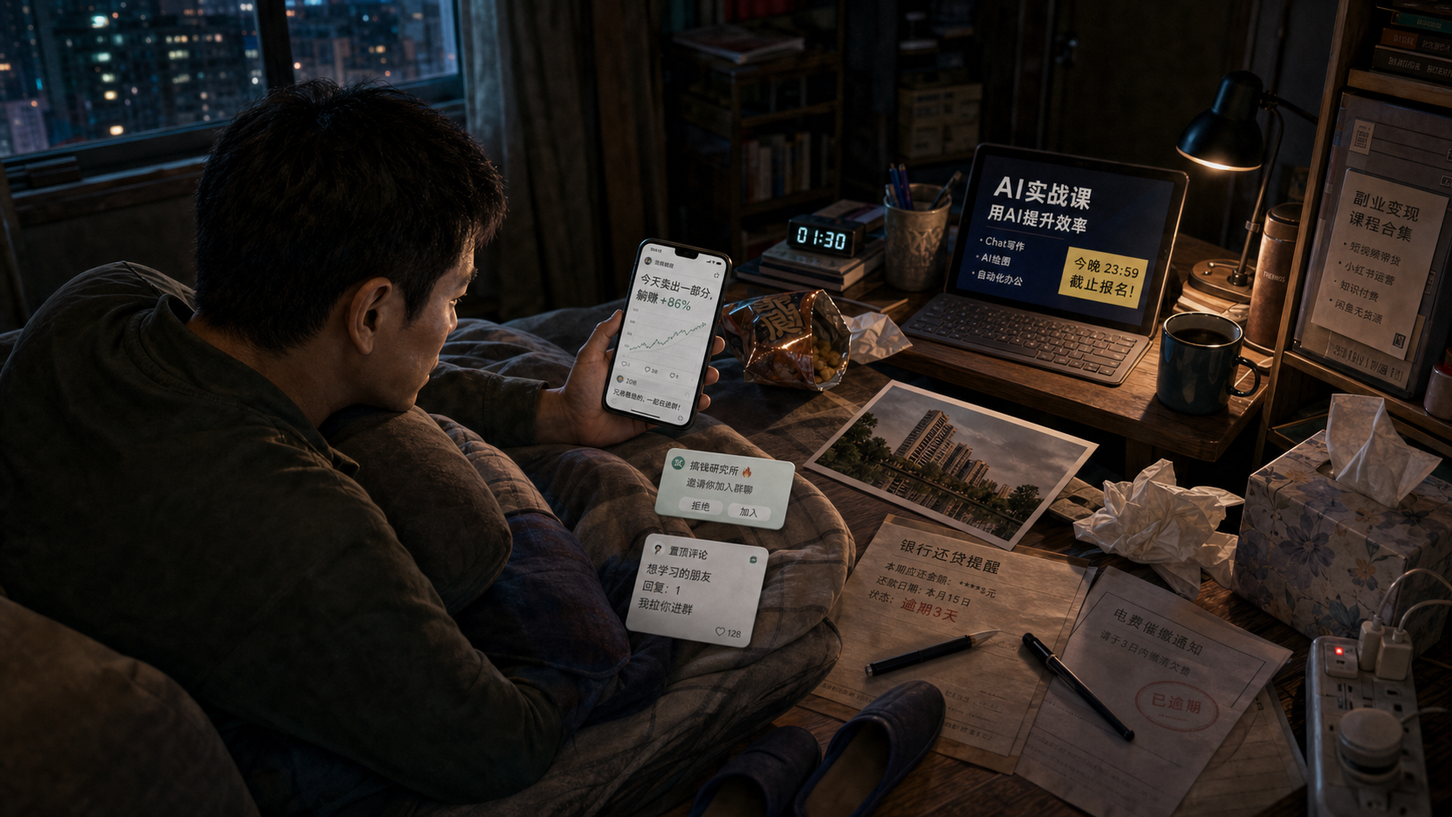
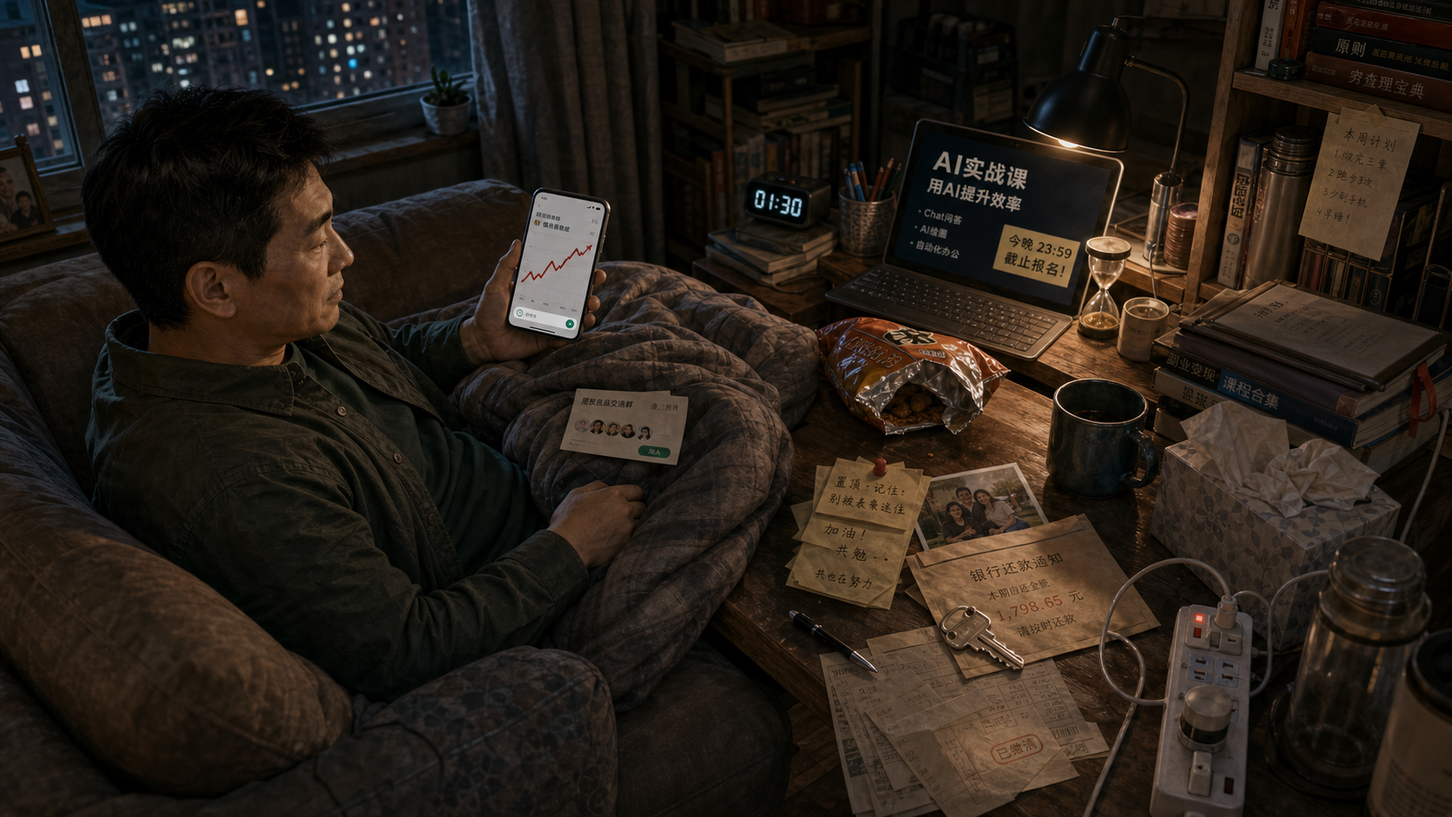
Rebuild social level around object clues

diff --git a/src/core/config.ts b/src/core/config.ts
@@ -351,15 +351,25 @@ export const gameConfig: GameConfig = {
       machineName: "高光拆帧机",
       machineEmbedded: true,
       completeText: "高光不是生活全貌。刷到别人的可发布版本，也先别拿它审判今晚的自己。",
+      decoys: [
+        { id: "blanket-fold", x: 29.5, y: 58, hitWidth: 10, hitHeight: 22, label: "被子褶皱" },
+        { id: "alarm-clock", x: 54.2, y: 28.6, hitWidth: 6.6, hitHeight: 7.2, label: "床头闹钟" },
+        { id: "snack-bag", x: 58.8, y: 47.5, hitWidth: 9.4, hitHeight: 10.5, label: "零食包装" },
+        { id: "table-mug", x: 78.9, y: 47.2, hitWidth: 6, hitHeight: 10, label: "桌边杯子" },
+        { id: "pen-stack", x: 59.2, y: 84.4, hitWidth: 16, hitHeight: 8, label: "纸笔杂物" },
+        { id: "tissue-box", x: 88.3, y: 66.2, hitWidth: 9.4, hitHeight: 15, label: "纸巾盒" },
+        { id: "charging-cable", x: 92.6, y: 74.8, hitWidth: 7.5, hitHeight: 14, label: "充电线" },
+        { id: "shelf-books", x: 90.5, y: 14.5, hitWidth: 12, hitHeight: 17, label: "书架书脊" }
+      ],
       hotspots: [
-        { id: "h1", evidenceId: "cropped_profit_screenshot", x: 49, y: 38.4, hitX: 49, hitY: 38.4, hitWidth: 8.2, hitHeight: 15, radius: 8, label: "手机上半截红线", found: false, renderMode: "embedded", revealText: "只露涨幅，不露本金", animationKind: "phone" },
-        { id: "h2", evidenceId: "unsent_reply_draft", x: 49, y: 50, hitX: 49, hitY: 50, hitWidth: 8, hitHeight: 5.8, radius: 7, label: "屏幕底部那句话", found: false, renderMode: "embedded", revealText: "祝福停在输入框里", animationKind: "chat" },
-        { id: "h3", evidenceId: "group_invite_popup", x: 54.2, y: 58.6, hitX: 54.2, hitY: 58.6, hitWidth: 12, hitHeight: 10, radius: 8, label: "被顺手接上的邀请", found: false, renderMode: "embedded", revealText: "进群入口接在收益后面", animationKind: "chat" },
-        { id: "h4", evidenceId: "pinned_review_comment", x: 53.4, y: 69.5, hitX: 53.4, hitY: 69.5, hitWidth: 12, hitHeight: 12, radius: 8, label: "被顶到最前的评论", found: false, renderMode: "embedded", revealText: "评论把补课入口顶上来", animationKind: "chat" },
-        { id: "h5", evidenceId: "ai_course_deadline", x: 71.7, y: 31.8, hitX: 71.7, hitY: 31.8, hitWidth: 18, hitHeight: 20, radius: 8, label: "电脑上的今晚截止", found: false, renderMode: "embedded", revealText: "倒计时醒目，条件在边缘", animationKind: "note" },
-        { id: "h6", evidenceId: "side_hustle_bookmark", x: 95.2, y: 33.5, hitX: 95.2, hitY: 33.5, hitWidth: 8.2, hitHeight: 25, radius: 8, label: "右侧没关的收藏页", found: false, renderMode: "embedded", revealText: "副业焦虑还开着标签页", animationKind: "note" },
-        { id: "h7", evidenceId: "mortgage_debit_notice", x: 71.1, y: 68.2, hitX: 71.1, hitY: 68.2, hitWidth: 21, hitHeight: 19, radius: 8, label: "相片旁的扣款纸", found: false, renderMode: "embedded", revealText: "新房照旁边压着月供", animationKind: "contract" },
-        { id: "h8", evidenceId: "household_overdue_bill", x: 84.8, y: 75.1, hitX: 84.8, hitY: 75.1, hitWidth: 17, hitHeight: 19, radius: 8, label: "插座边的催缴单", found: false, renderMode: "embedded", revealText: "睡前账单还没闭嘴", animationKind: "paper" }
+        { id: "h1", evidenceId: "cropped_profit_screenshot", x: 38.2, y: 35.1, hitX: 38.2, hitY: 35.1, hitWidth: 8, hitHeight: 13.5, radius: 8, label: "手机上半截红线", found: false, renderMode: "embedded", revealText: "只露涨幅，不露本金", animationKind: "phone" },
+        { id: "h2", evidenceId: "unsent_reply_draft", x: 38.2, y: 42, hitX: 38.2, hitY: 42, hitWidth: 7.8, hitHeight: 5.4, radius: 7, label: "屏幕底部那句话", found: false, renderMode: "embedded", revealText: "祝福停在输入框里", animationKind: "chat" },
+        { id: "h3", evidenceId: "group_invite_popup", x: 43.2, y: 56.7, hitX: 43.2, hitY: 56.7, hitWidth: 12, hitHeight: 9.5, radius: 8, label: "被顺手接上的邀请", found: false, renderMode: "embedded", revealText: "进群入口接在收益后面", animationKind: "chat" },
+        { id: "h4", evidenceId: "pinned_review_comment", x: 55.9, y: 65.2, hitX: 55.9, hitY: 65.2, hitWidth: 10.8, hitHeight: 15, radius: 8, label: "被顶到最前的评论", found: false, renderMode: "embedded", revealText: "评论把补课入口顶上来", animationKind: "chat" },
+        { id: "h5", evidenceId: "ai_course_deadline", x: 69.8, y: 29.5, hitX: 69.8, hitY: 29.5, hitWidth: 16, hitHeight: 18, radius: 8, label: "电脑上的今晚截止", found: false, renderMode: "embedded", revealText: "倒计时醒目，条件在边缘", animationKind: "note" },
+        { id: "h6", evidenceId: "side_hustle_bookmark", x: 88.6, y: 39.3, hitX: 88.6, hitY: 39.3, hitWidth: 8.5, hitHeight: 20, radius: 8, label: "右侧没关的收藏页", found: false, renderMode: "embedded", revealText: "副业焦虑还开着标签页", animationKind: "note" },
+        { id: "h7", evidenceId: "mortgage_debit_notice", x: 67.5, y: 74.2, hitX: 67.5, hitY: 74.2, hitWidth: 12, hitHeight: 15, radius: 8, label: "相片旁的扣款纸", found: false, renderMode: "embedded", revealText: "新房照旁边压着月供", animationKind: "contract" },
+        { id: "h8", evidenceId: "household_overdue_bill", x: 85.8, y: 79.5, hitX: 85.8, hitY: 79.5, hitWidth: 15.5, hitHeight: 17.5, radius: 8, label: "插座边的催缴单", found: false, renderMode: "embedded", revealText: "睡前账单还没闭嘴", animationKind: "paper" }
       ]
     }
   ]

diff --git a/src/game/scenes/socialScene.ts b/src/game/scenes/socialScene.ts
@@ -1,5 +1,5 @@
 import Phaser from "phaser";
-import type { HotspotEvidence, InvestigationScene, SceneHotspot } from "../../core/types";
+import type { HotspotEvidence, InvestigationScene, SceneDecoy, SceneHotspot } from "../../core/types";
 import { playHitSound } from "../systems/audioSystem";
 import { getOfficeProgress } from "../systems/progressSystem";
 
@@ -17,24 +17,6 @@ const characterStates = [
   "progress-8"
 ] as const;
 type CharacterState = (typeof characterStates)[number];
-type DecoyZone = {
-  id: string;
-  x: number;
-  y: number;
-  width: number;
-  height: number;
-};
-
-const socialDecoys: DecoyZone[] = [
-  { id: "blanket-fold", x: 40.5, y: 55.8, width: 8.2, height: 20 },
-  { id: "alarm-clock", x: 63.2, y: 29.4, width: 6.8, height: 7.2 },
-  { id: "snack-bag", x: 65.2, y: 47.5, width: 8.8, height: 9.8 },
-  { id: "table-mug", x: 79.4, y: 40.5, width: 5.2, height: 8.8 },
-  { id: "pen-stack", x: 73.8, y: 66.4, width: 12.2, height: 8 },
-  { id: "tissue-box", x: 87.4, y: 53.5, width: 9.2, height: 13.5 },
-  { id: "charging-cable", x: 90.4, y: 79.8, width: 9, height: 15.5 },
-  { id: "shelf-books", x: 56.8, y: 18.8, width: 10.5, height: 17.5 }
-];
 
 export interface SocialSceneData {
   scene: InvestigationScene;
@@ -123,8 +105,8 @@ export class SocialScene extends Phaser.Scene {
     const progress = getOfficeProgress(this.socialData.scene, this.socialData.foundHotspotIds);
     if (progress.complete) return;
 
-    for (const decoy of socialDecoys) {
-      const rect = this.getPercentRect(decoy);
+    for (const decoy of this.socialData.scene.decoys ?? []) {
+      const rect = this.getDecoyRect(decoy);
       const zone = this.add.zone(rect.x, rect.y, rect.width, rect.height).setDepth(40).setInteractive({ useHandCursor: true });
       zone.on("pointerdown", () => this.handleDecoy(rect));
     }
@@ -423,12 +405,12 @@ export class SocialScene extends Phaser.Scene {
     };
   }
 
-  private getPercentRect(rect: { x: number; y: number; width: number; height: number }): { x: number; y: number; width: number; height: number } {
+  private getDecoyRect(decoy: SceneDecoy): { x: number; y: number; width: number; height: number } {
     return {
-      x: (rect.x / 100) * worldWidth,
-      y: (rect.y / 100) * worldHeight,
-      width: (rect.width / 100) * worldWidth,
-      height: (rect.height / 100) * worldHeight
+      x: (decoy.x / 100) * worldWidth,
+      y: (decoy.y / 100) * worldHeight,
+      width: (decoy.hitWidth / 100) * worldWidth,
+      height: (decoy.hitHeight / 100) * worldHeight
     };
   }
 }

diff --git a/src/main.ts b/src/main.ts
@@ -243,6 +243,19 @@ function renderAccessibilityHotspots(scene: InvestigationScene, sceneState: Scen
 
   return `
     <div class="game-accessibility" aria-label="可点击线索">
+      ${(scene.decoys ?? [])
+        .map(
+          (decoy) => `
+            <button
+              class="access-hotspot access-decoy"
+              style="left:${toPercent(decoy.x)}%; top:${toPercent(decoy.y)}%; width:${toPercent(decoy.hitWidth)}%; height:${toPercent(decoy.hitHeight)}%;"
+              data-action="decoy"
+              data-id="${escapeAttribute(decoy.id)}"
+              aria-label="${escapeAttribute(decoy.label)}"
+            ></button>
+          `
+        )
+        .join("")}
       ${scene.hotspots
         .filter((hotspot) => !sceneState.foundHotspotIds.includes(hotspot.id))
         .map(
@@ -266,6 +279,10 @@ function bindEvents(): void {
     element.addEventListener("click", async () => {
       const action = element.dataset.action;
       if (action === "hotspot") handleHotspot(element.dataset.id ?? "");
+      if (action === "decoy") {
+        handleMiss();
+        render();
+      }
       if (action === "hint-ad") await rewardHint();
       if (action === "reset") resetDemo();
       if (action === "start-challenge") startChallenge();

diff --git a/src/core/types.ts b/src/core/types.ts
@@ -33,6 +33,15 @@ export interface SceneHotspot {
   animationKind?: "kline" | "goldLine" | "chat" | "paper" | "scratch" | "receipt" | "news" | "alert" | "sign" | "contract" | "photo" | "phone" | "ticket" | "note" | "bottle";
 }
 
+export interface SceneDecoy {
+  id: string;
+  x: number;
+  y: number;
+  hitWidth: number;
+  hitHeight: number;
+  label: string;
+}
+
 export interface InvestigationScene {
   id: string;
   name: string;
@@ -47,6 +56,7 @@ export interface InvestigationScene {
   machineImage?: string;
   machineEmbedded?: boolean;
   completeText?: string;
+  decoys?: SceneDecoy[];
   hotspots: SceneHotspot[];
 }
 

diff --git a/src/styles.css b/src/styles.css
@@ -2033,6 +2033,7 @@ p {
   position: absolute;
   inset: 0;
   z-index: 20;
+  pointer-events: none;
 }
 
 .access-hotspot {
@@ -2045,6 +2046,7 @@ p {
   box-shadow: none;
   opacity: 0;
   transform: translate(-50%, -50%);
+  pointer-events: auto;
 }
 
 .access-hotspot:hover {

diff --git a/docs/reviews/2026-06-02-social-image-review.md b/docs/reviews/2026-06-02-social-image-review.md
@@ -1,6 +1,6 @@
 # social Image Review
 
-Generated: 2026-06-01
+Generated: 2026-06-02
 
 
 > Existing review file overwritten by the latest config snapshot.
@@ -18,10 +18,11 @@ Generated: 2026-06-01
 
 ## Review Result
 
-- Decision: pass after the difficulty pass.
-- Reason: clue count stays above the third level's 7 clues, the answer labels no longer read like a solution list, and the runtime now has 8 false-positive decoy zones around plausible non-clue clutter.
-- Difficulty note: the player must distinguish pressure/cost evidence from ordinary bedroom objects such as blanket folds, the clock, snacks, mugs, pens, tissue box, charging cable, and shelf clutter.
-- Remaining risk: the progress states are still same-layout full-scene rasters, matching the current second/third-level pipeline. The longer-term production target remains layered character/state assets.
+- Decision: pass after V3 rebuild.
+- Reason: the level no longer relies on clicking every text block. The main clue bodies are object states or object relationships: thumb-cropped chart, unpressed send strip, invite card, pinned note, laptop countdown/hourglass, bookmark stack, house key plus repayment envelope, and utility envelope beside a power strip.
+- Difficulty note: 8 config-level decoys are present and shared by DOM accessibility and Phaser interaction layers, so ordinary clutter can be clicked without advancing progress.
+- Visual QA: Playwright and manual browser checks confirmed that three decoy clicks kept progress at `0/8`, while four real clues advanced to `4/8` with local found markers on the intended objects.
+- Remaining risk: the progress states remain full-scene raster variants instead of layered character assets, consistent with the current second/third-level production phase.
 
 ## Generation Brief
 
@@ -156,14 +157,14 @@ Record source-pixel centers before converting to config percentages.
 
 | ID | Label | Evidence | Config center | Config box | Animation | Source center | Review note |
 | --- | --- | --- | --- | --- | --- | --- | --- |
-| `h1` | 手机上半截红线 | `cropped_profit_screenshot` | 49, 38.4 | 8.2 x 15 | phone | `819, 361` | upper phone feed chart |
-| `h2` | 屏幕底部那句话 | `unsent_reply_draft` | 49, 50 | 8 x 5.8 | chat | `819, 471` | lower phone reply strip |
-| `h3` | 被顺手接上的邀请 | `group_invite_popup` | 54.2, 58.6 | 12 x 10 | chat | `906, 551` | nearby invite card |
-| `h4` | 被顶到最前的评论 | `pinned_review_comment` | 53.4, 69.5 | 12 x 12 | chat | `893, 654` | pinned/replay card |
-| `h5` | 电脑上的今晚截止 | `ai_course_deadline` | 71.7, 31.8 | 18 x 20 | note | `1199, 299` | laptop deadline page |
-| `h6` | 右侧没关的收藏页 | `side_hustle_bookmark` | 95.2, 33.5 | 8.2 x 25 | note | `1592, 315` | right-side saved course page |
-| `h7` | 相片旁的扣款纸 | `mortgage_debit_notice` | 71.1, 68.2 | 21 x 19 | contract | `1189, 642` | home photo and repayment notice |
-| `h8` | 插座边的催缴单 | `household_overdue_bill` | 84.8, 75.1 | 17 x 19 | paper | `1418, 707` | lower-right household bill |
+| `h1` | 手机上半截红线 | `cropped_profit_screenshot` | 38.2, 35.1 | 8 x 13.5 | phone | `639, 330` | thumb/screen crop hides principal area |
+| `h2` | 屏幕底部那句话 | `unsent_reply_draft` | 38.2, 42 | 7.8 x 5.4 | chat | `639, 395` | unpressed phone input/send strip |
+| `h3` | 被顺手接上的邀请 | `group_invite_popup` | 43.2, 56.7 | 12 x 9.5 | chat | `722, 534` | invite card tucked into blanket |
+| `h4` | 被顶到最前的评论 | `pinned_review_comment` | 55.9, 65.2 | 10.8 x 15 | chat | `934, 614` | pinned note with red pushpin |
+| `h5` | 电脑上的今晚截止 | `ai_course_deadline` | 69.8, 29.5 | 16 x 18 | note | `1167, 278` | laptop countdown plus hourglass |
+| `h6` | 右侧没关的收藏页 | `side_hustle_bookmark` | 88.6, 39.3 | 8.5 x 20 | note | `1481, 370` | side bookmark/course stack |
+| `h7` | 相片旁的扣款纸 | `mortgage_debit_notice` | 67.5, 74.2 | 12 x 15 | contract | `1129, 698` | key and repayment envelope |
+| `h8` | 插座边的催缴单 | `household_overdue_bill` | 85.8, 79.5 | 15.5 x 17.5 | paper | `1434, 748` | utility envelope near power strip |
 
 ## Decision
 

diff --git a/docs/social-v3-production-brief.md b/docs/social-v3-production-brief.md
@@ -1,0 +1,76 @@
+# Social V3 Production Brief
+
+Scene: `social` / `小红薯暴击夜`
+
+## Theme
+
+睡前想刷手机放松，却被别人高光和自己现实成本夹击。
+
+## Core Correction
+
+The previous social scene failed because most correct targets were visible text blocks. The new scene must follow the convenience-store direction: hide pressure inside believable objects and object relationships. Text can exist, but it cannot be the only reason a clue is suspicious.
+
+## Camera & Layout
+
+- Canvas: 16:9 hidden-object game scene.
+- Camera: high 3/4 view over a cramped bedside sofa/low table area.
+- Main action: Zhou Qiming half-reclines in a worn armchair or sofa corner, phone in hand, posture believable for late-night scrolling.
+- Foreground: blanket, slippers, power strip, paper scraps, envelopes, keys, snack bag, mug.
+- Midground: phone, low table, laptop/tablet, ordinary clutter, most clue objects.
+- Background: window, dim shelf, side lamp, non-interactive household objects.
+- The image must be dense enough that ordinary clutter competes with clue objects.
+
+## Character Plan
+
+Fourth level has 8 clues and needs 9 progress states: `progress-0` through `progress-8`.
+
+- `progress-0`: tightly doomscrolling, shoulders closed.
+- `progress-1..3`: gaze starts leaving the phone.
+- `progress-4..6`: body opens, phone lowers.
+- `progress-7`: skeptical half-smile, no longer swallowed by the feed.
+- `progress-8`: relaxed, phone no longer controls posture.
+
+State variants may use same-layout full-scene rasters for this project phase. Clue bodies and decoys must stay in place across all states.
+
+## Clue Plan
+
+Total: 8 clues, harder than the third level's 7 clues.
+
+At least 5 clues must be object/relationship driven rather than pure text.
+
+1. `cropped_profit_screenshot`: phone feed shows a red upward chart, but Zhou's thumb or screen crop hides the principal/position area.
+2. `unsent_reply_draft`: phone bottom has a visible send arrow/input area that was not pressed; this is a button-state clue, not a text-only clue.
+3. `group_invite_popup`: a small invitation card with avatar dots and a join button is tucked partly under the phone/blanket, visually connected to the profit post.
+4. `pinned_review_comment`: a pinned/replay card uses a physical pushpin or red pin marker, mixed with ordinary sticky notes.
+5. `ai_course_deadline`: laptop/tablet has a course screen plus a physical timer/hourglass/sticky countdown on the keyboard area.
+6. `side_hustle_bookmark`: a bookmark ribbon or saved-course card sticks out from a side notebook/tablet stack, not just a text page.
+7. `mortgage_debit_notice`: a house key and home photo sit on a bank envelope or repayment slip; the object relationship carries the meaning.
+8. `household_overdue_bill`: a red-stamped utility envelope sits near a power strip/plug, competing with ordinary paper clutter.
+
+## Required Decoys
+
+Place at least 8 plausible non-clue decoys:
+
+- ordinary receipt, blank envelope, snack package, mug, tissue pile, book spine, charging cable, clock, pen, harmless photo, folded blanket edge, water bottle.
+
+Decoys should be close enough in material and shape that the player cannot solve the level by clicking every text block.
+
+## Forbidden
+
+- No all-clues-are-text design.
+- No giant QR code.
+- No standalone UI cards floating over the scene.
+- No clue label baked into the art.
+- No office-work pose.
+- No phone screen that only faces the camera while the character cannot see it.
+- No empty scenic background dominating the playable area.
+- No duplicate paper-slip clues that only differ by written words.
+
+## Acceptance Notes
+
+- The level must have 8 hotspots and 9 progress states.
+- At least 5/8 active clues must be visually supported by object state or object relationship.
+- Runtime must include false-positive decoy zones.
+- Hotspot calibration must be re-measured from the final source image.
+- Playwright must capture intro, mid-progress, completion, and mobile intro screenshots.
+- Config validation must prove social clue count exceeds convenience clue count and social progress images are distinct.

diff --git a/docs/social-hotspot-calibration.md b/docs/social-hotspot-calibration.md
@@ -4,19 +4,32 @@ Base image: `public/assets/game/social/states/social-progress-0.png`
 
 Source image size: `1672 x 941`.
 
-Runtime stage: `1280 x 720`, scaled with center crop by `SocialScene`.
+Runtime stage: `1280 x 720`, no center crop expected because the source is 16:9.
 
-The fourth level must be harder than the third level, so this calibration uses 8 clues after the 7-clue convenience level. The clues are intentionally split across phone content, phone-adjacent cards, other screens, and life-cost paperwork so the search does not collapse into one phone rectangle.
+Fourth-level difficulty rule: this level must be harder than the 7-clue convenience level and must not collapse into "click every text block". The active clues are anchored to object state or object relationships, while ordinary household clutter acts as decoy space.
 
 | Hotspot | Evidence | Source center px | Runtime % | Hit size % | Visual anchor |
 | --- | --- | ---: | ---: | ---: | --- |
-| h1 | `cropped_profit_screenshot` | `819, 361` | `49.0, 38.4` | `8.2 x 15.0` | upper phone feed profit chart |
-| h2 | `unsent_reply_draft` | `819, 471` | `49.0, 50.0` | `8.0 x 5.8` | lower phone reply/input strip |
-| h3 | `group_invite_popup` | `906, 551` | `54.2, 58.6` | `12.0 x 10.0` | invite card near the blanket |
-| h4 | `pinned_review_comment` | `893, 654` | `53.4, 69.5` | `12.0 x 12.0` | pinned comment/replay card below the blanket |
-| h5 | `ai_course_deadline` | `1199, 299` | `71.7, 31.8` | `18.0 x 20.0` | laptop deadline/course page |
-| h6 | `side_hustle_bookmark` | `1592, 315` | `95.2, 33.5` | `8.2 x 25.0` | right-side side-hustle page |
-| h7 | `mortgage_debit_notice` | `1189, 642` | `71.1, 68.2` | `21.0 x 19.0` | home photo plus repayment notice |
-| h8 | `household_overdue_bill` | `1418, 707` | `84.8, 75.1` | `17.0 x 19.0` | household overdue bill near the cabinet |
+| h1 | `cropped_profit_screenshot` | `639, 330` | `38.2, 35.1` | `8.0 x 13.5` | phone upper chart area partly hidden by hand/screen crop |
+| h2 | `unsent_reply_draft` | `639, 395` | `38.2, 42.0` | `7.8 x 5.4` | phone bottom input/send strip |
+| h3 | `group_invite_popup` | `722, 534` | `43.2, 56.7` | `12.0 x 9.5` | small invite card tucked into blanket |
+| h4 | `pinned_review_comment` | `934, 614` | `55.9, 65.2` | `10.8 x 15.0` | pinned note with red pushpin among ordinary notes |
+| h5 | `ai_course_deadline` | `1167, 278` | `69.8, 29.5` | `16.0 x 18.0` | laptop course screen plus countdown/hourglass area |
+| h6 | `side_hustle_bookmark` | `1481, 370` | `88.6, 39.3` | `8.5 x 20.0` | right-side course/bookmark stack |
+| h7 | `mortgage_debit_notice` | `1129, 698` | `67.5, 74.2` | `12.0 x 15.0` | key and repayment envelope, narrowed to avoid pinned-note overlap |
+| h8 | `household_overdue_bill` | `1434, 748` | `85.8, 79.5` | `15.5 x 17.5` | utility envelope near power strip and plug |
 
-Calibration rule: use the center of the actual object body, not the center of the check marker or the nearest label. If a later image revision changes object placement, re-measure in source pixels first, then update percentages and Playwright screenshots together.
+## Decoy Zones
+
+| Decoy | Runtime % | Hit size % | Visual anchor |
+| --- | ---: | ---: | --- |
+| `blanket-fold` | `29.5, 58.0` | `10.0 x 22.0` | folded blanket edge |
+| `alarm-clock` | `54.2, 28.6` | `6.6 x 7.2` | bedside digital clock |
+| `snack-bag` | `58.8, 47.5` | `9.4 x 10.5` | ordinary snack package |
+| `table-mug` | `78.9, 47.2` | `6.0 x 10.0` | mug near lamp |
+| `pen-stack` | `59.2, 84.4` | `16.0 x 8.0` | ordinary pen and paper scraps |
+| `tissue-box` | `88.3, 66.2` | `9.4 x 15.0` | tissue box and crumpled tissue |
+| `charging-cable` | `92.6, 74.8` | `7.5 x 14.0` | loose charging cable |
+| `shelf-books` | `90.5, 14.5` | `12.0 x 17.0` | upper shelf books |
+
+Calibration rule: use the center of the object relationship, not the center of nearby text. If a future art pass changes the object positions, update this source-pixel record before changing config percentages.

diff --git a/TASK_STATE.md b/TASK_STATE.md
@@ -144,8 +144,10 @@ The second level is now wired as a playable Phaser flow and has been rebuilt wit
 - Fourth level QA note: the new social slice splits clues across phone content, phone-adjacent invite/comment cards, other screens, and household cost paperwork instead of concentrating everything in one phone or one pile of paper.
 - Fourth level QA finding resolved: `social-progress-0..8` are now distinct same-layout raster states. Zhou Qiming starts in a believable sofa/bedside scrolling pose and gradually cools down while all eight clue bodies remain present.
 - Fourth level QA finding resolved: social hit feedback now uses eight clue-specific local effects: profit crop, unsent input cursor, invite card lines, pinned comment pulse, deadline flash, bookmark fold, repayment underline, and bill stamp.
-- Fourth level QA finding resolved: after the social-v2 asset swap, all eight hotspot centers were recalibrated from the visible object groups. Playwright screenshots were regenerated and manually checked for the 8/8 counter, distributed clue placement, and completion-state expression change.
+- Fourth level QA finding resolved: after the social V3 asset swap, all eight hotspot centers were recalibrated from object-state and object-relationship anchors. Playwright screenshots were regenerated and manually checked for the 8/8 counter, distributed clue placement, and completion-state expression change.
 - Fourth level difficulty pass: clue labels were softened from answer names into observation prompts, and `socialScene` now includes eight false-positive decoy zones on ordinary clutter so the player has to separate real pressure/cost evidence from plausible bedroom noise.
+- Fourth level V3 rebuild: replaced the text-heavy social scene with object-relationship clue art. The clue set now uses thumb-cropped profit chart, unpressed send strip, invite card, pinned note, laptop countdown/hourglass, bookmark stack, house key plus repayment envelope, and utility envelope near a power strip; DOM and Phaser both consume config-level decoys.
+- Fourth level QA finding resolved: manual browser checks confirmed three decoy clicks kept social progress at `0/8`, while four real object-relation clues advanced to `4/8` with local markers on the intended objects.
 - Fourth level QA finding resolved: the fourth-level scene intro card was moved off Zhou Qiming's face and phone, and Playwright now captures social mid-progress plus mobile-first screenshots.
 - Fourth level QA finding resolved: the iron-rule runtime guard now includes `convenienceScene` and `socialScene`, so later level scenes are covered by the same no-patchwork/no-fake-feedback checks as the first two scenes.
 - Fourth level QA risk: the progress states are full-scene bitmap states rather than clean transparent character layers. They now match the current second/third-level bitmap-state approach, but the longer-term production pipeline should still move toward layered character/proxy assets.

diff --git a/docs/image-review-optimize-loop.md b/docs/image-review-optimize-loop.md
@@ -155,6 +155,8 @@ Use these rules when prompting or editing raster art.
 - Put people where their behavior makes sense. Rooftop people can brag, smoke, check phones, drink, or gossip; they should not look like office workers doing desk work on a roof.
 - Make clues varied in form: phone, receipt, poster, ticket, key, bag, cup, chart, contract, screen, stamp, shelf object. Do not make all clues paper slips.
 - Make clue semantics direct. A high-voltage sign is not automatically a financial-risk clue. If the clue is "杠杆合同", the visible object should read as contract/key/folder/debt, not a random warning label.
+- For later levels, do not let "click every text block" become the solution. At least half of the clues should be readable from object state or object relationships without relying on text: a covered amount, a thumb hiding principal, a key sitting on a repayment envelope, a timer attached to a course device, a send button that was never pressed, or a pile of failed tickets arranged to imply near-miss pressure.
+- Add believable decoys during the image brief, not after the fact. Decoys should share the same material family as clues, such as ordinary receipts near a debt notice, snacks near a course laptop, paper scraps near a contract, or household clutter near a bill.
 - Preserve mobile readability. Important objects must still be identifiable when the scene is displayed in the game layout, not only in the raw image.
 - Avoid single-hue palettes. Keep the game's deep-green/warm-gold identity, but use material contrast from paper, metal, cloth, plastic, skin, glass, and city light.
 

diff --git a/docs/art-direction.md b/docs/art-direction.md
@@ -32,6 +32,9 @@
 
 - 线索可以藏得不显眼，但不能模棱两可。
 - 每个线索必须是可命名的具体物件，例如手机、账单、刮刮乐彩票、香炉、许愿墙、工牌、文件夹。
+- 后续关卡难度不能靠“把答案文字写小”。优先把信息藏进物件关系、摆放动作和道具状态里：彩票店的废票、遮金额合影、付款加购贴这类线索是基准方向。玩家应通过“这件物品为什么在这里、它和旁边物件构成什么诱导关系”来判断，而不是看到一块文字就点。
+- 有文字的物件必须配套可识别的非文字形态，例如钥匙加还款信封、计时器加课程屏、拇指遮住本金的收益图、输入框加未按发送按钮。文字只做辅助，不得成为唯一线索本体。
+- 同一关内应布置合理的非线索干扰物。干扰物要符合场景生活逻辑，并和线索有相近材质或形状，但不能被左侧标签、默认 hover 或显眼贴纸提前排除。
 - 禁止把空白电脑屏幕、抽象卡片、模糊 UI 区域、无主体色块当作线索。
 - 屏幕类线索必须有明确内容形态，例如 K 线轮廓、机器人图形、红色亏损标记；不要依赖不可读小字。
 - 线索边界应在移动端尺寸下仍可辨认；点击热区可以宽容，但视觉主体必须明确。

diff --git a/docs/level-campaign.md b/docs/level-campaign.md
@@ -82,14 +82,14 @@
 
 线索：
 
-- 手机收益图只露涨幅，不露本金和持仓时间。
-- 回复框里停着没发出去的祝福。
-- 收益帖旁边弹出进群邀请。
-- 评论区把复盘入口置顶。
-- AI 课程页把 `今晚 23:59` 放到最醒目，条件藏在边缘。
-- 副业课程收藏页还停在侧屏。
-- 新房照片旁边压着下月还款单。
-- 生活缴费单提醒现实成本不会暂停。
+- 拇指和屏幕裁边挡住收益图本金区。
+- 手机底部输入框和发送箭头停着没按。
+- 收益图旁边半塞着一张进群邀请卡。
+- 普通便签里混着一张被图钉顶住的复盘评论。
+- 课程电脑旁放着计时器/沙漏，倒计时不只在屏幕字上。
+- 侧边书本/平板堆里露出副业课程书签。
+- 新房照片旁放着钥匙和下月还款信封。
+- 电源插排旁压着带红章的生活缴费单。
 
 处理机器：`高光拆帧机`。
 
